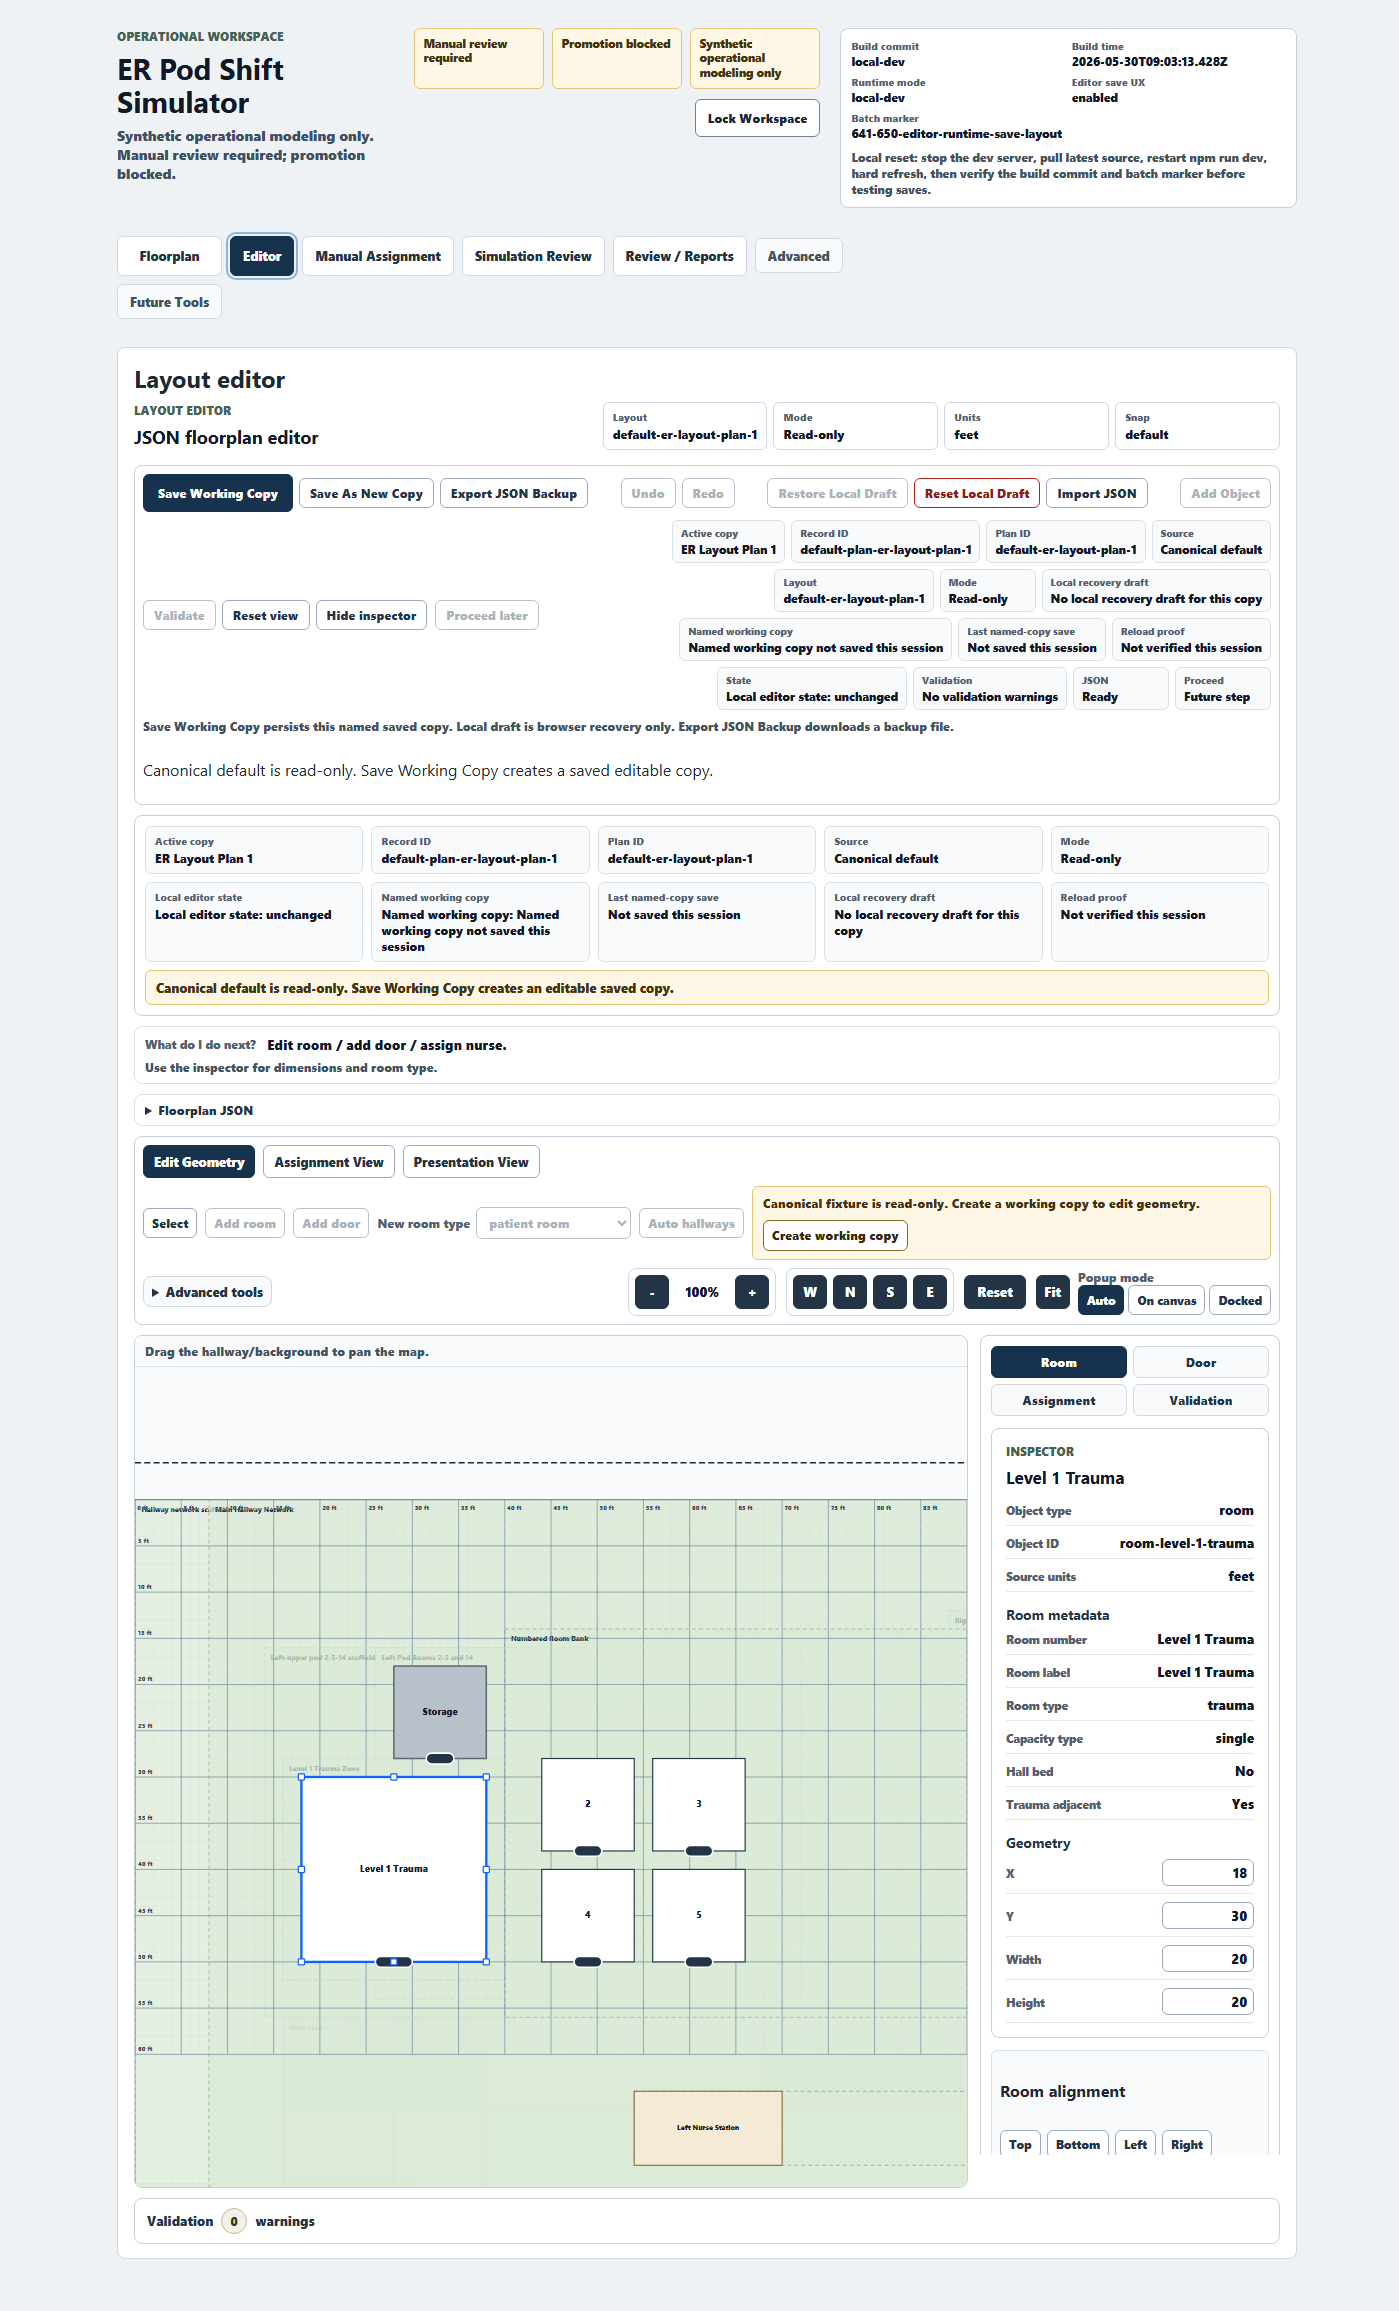
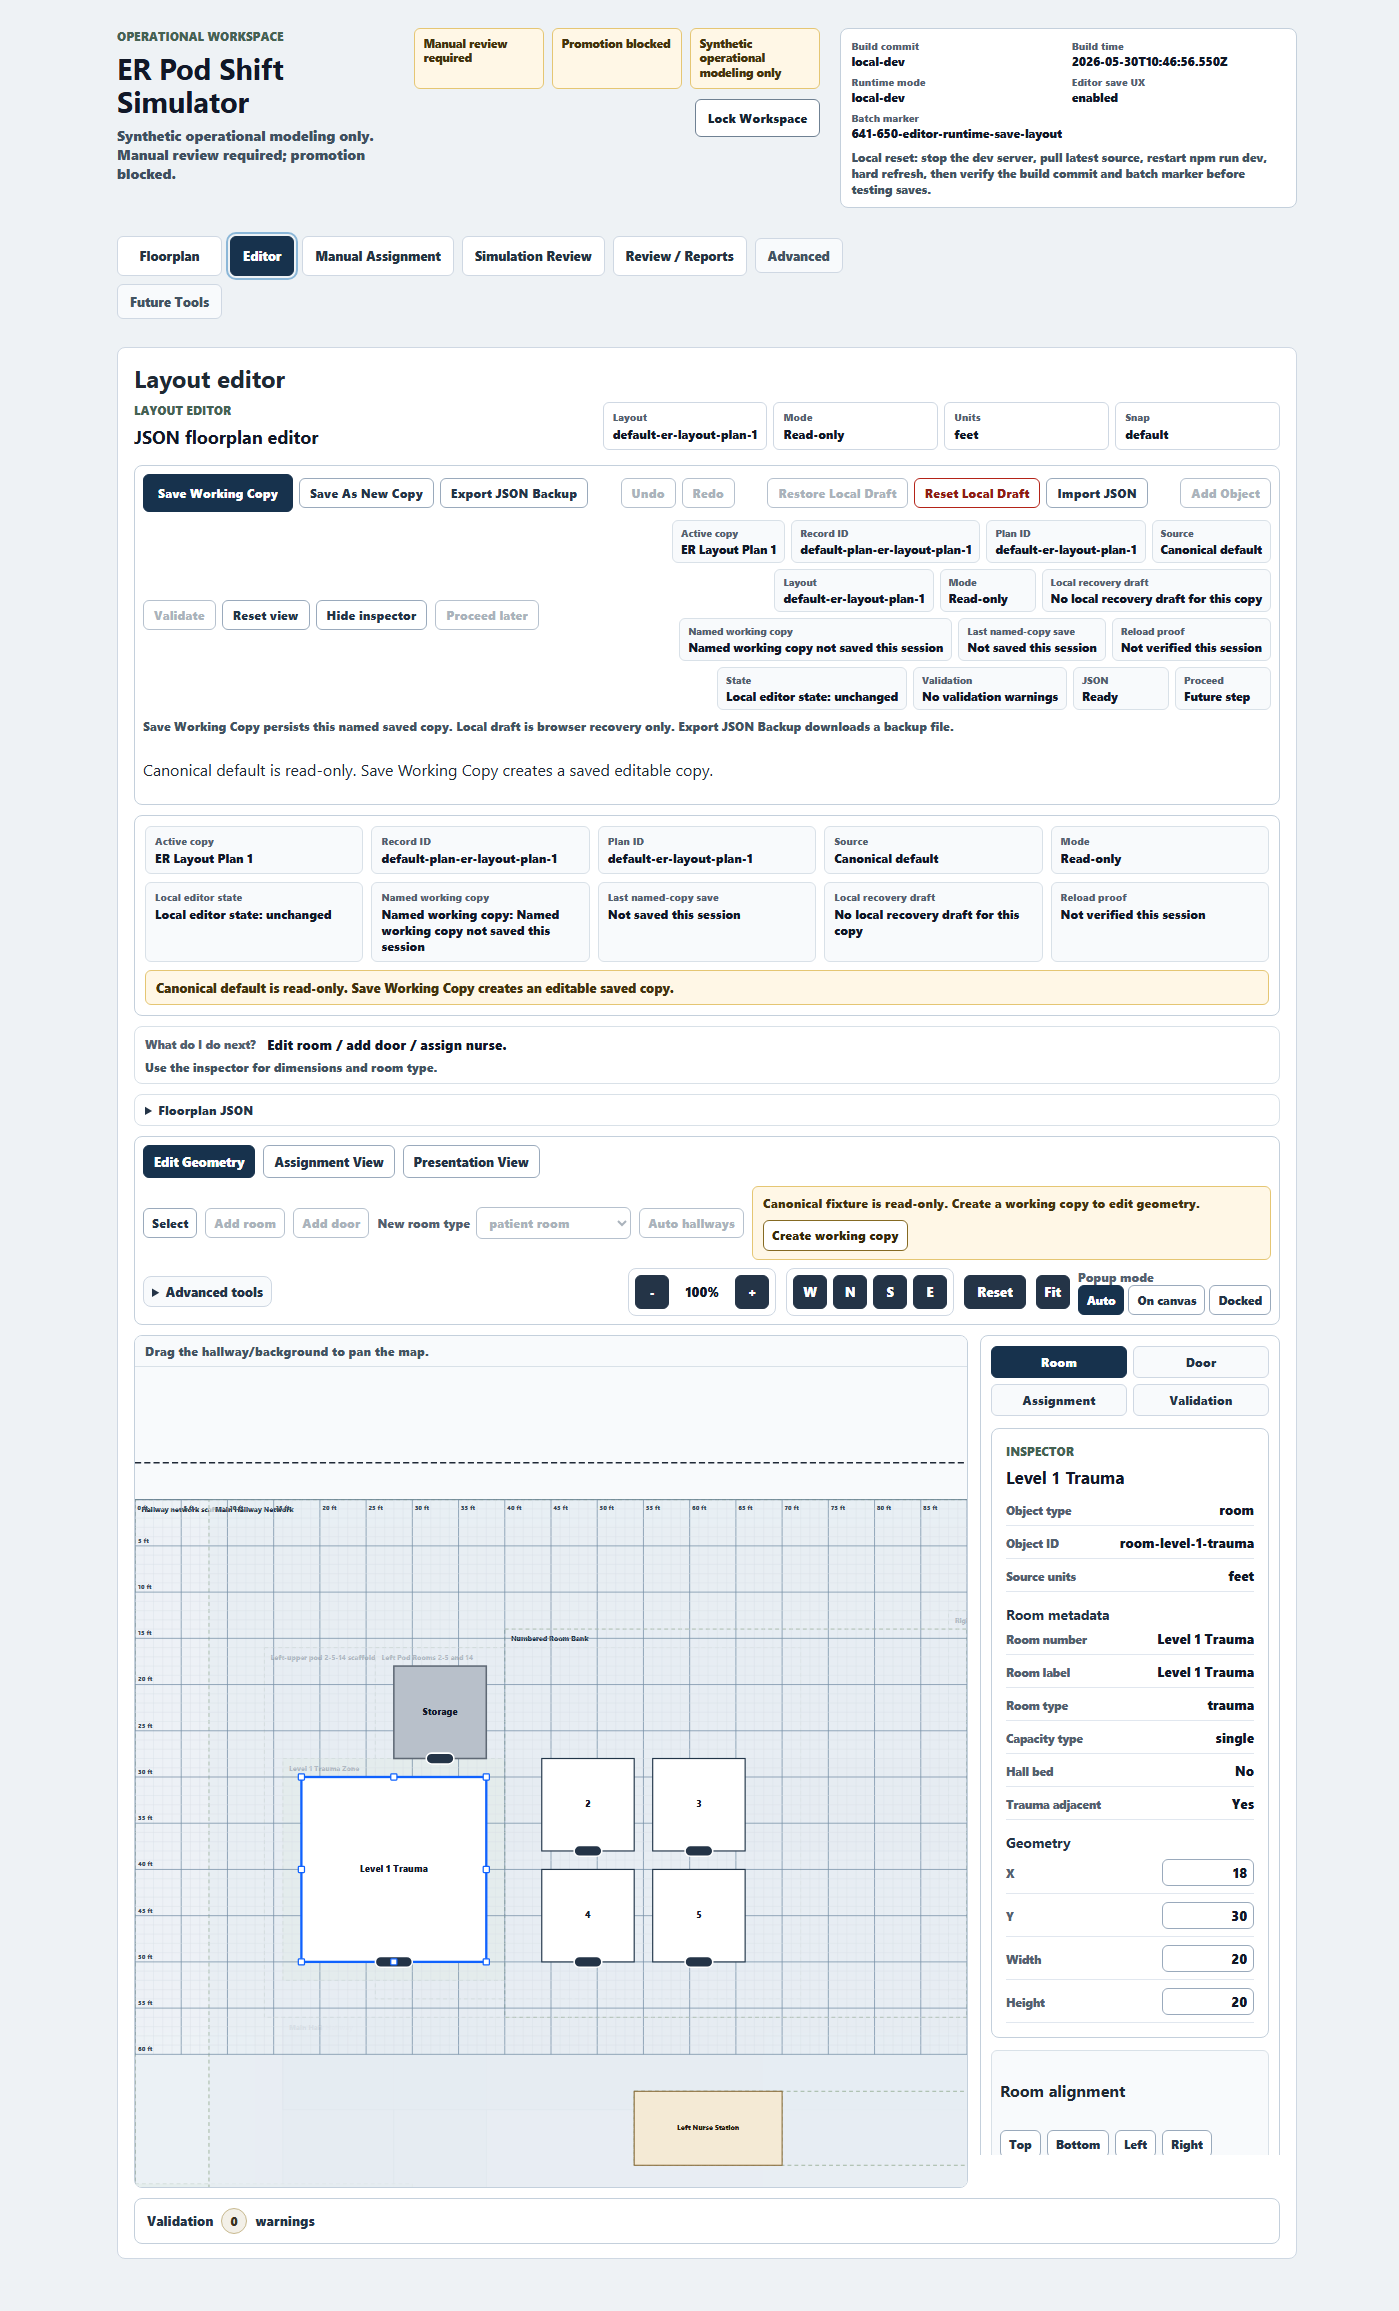
Fix support access zone boundary

Changed region(s): [[0.1229, 0.6231, 0.7069, 0.9658]]

diff --git a/apps/web/src/features/layout-editor/layoutEditorActiveFloorplanLoad.test.ts b/apps/web/src/features/layout-editor/layoutEditorActiveFloorplanLoad.test.ts
@@ -11,6 +11,7 @@ import {
 } from "../floorplans/activeFloorplanState";
 import { createDuplicateFloorplanViewModel } from "../floorplans/duplicateFloorplanViewModel";
 import { createSavedFloorplanStore } from "../floorplans/savedFloorplanStore";
+import { buildHallwayZoneQuickEdit } from "./hallwayZoneQuickEditViewModel";
 import { layoutEditorReducer } from "./layoutEditorReducer";
 import { createLayoutEditorStateFromFloorplan } from "./layoutEditorState";
 import { buildLayoutValidationPanelViewModel } from "./layoutValidationPanelViewModel";
@@ -58,6 +59,25 @@ if (defaultEditorState.sourcePlan.pathEdges.length !== defaultFixture.plan.pathE
 }
 if (defaultEditorState.loadedFloorplan?.sourceKind !== "default-json") {
   throw new Error("editor loaded floorplan must identify default JSON source");
+}
+const supportAccessEligibleZoneIds = defaultEditorState.editableLayout.zones
+  .filter((zone) =>
+    buildHallwayZoneQuickEdit({
+      hallway: null,
+      zone,
+      readOnly: false,
+      validationWarningCount: 0
+    }).canAddSupportAccessPoint
+  )
+  .map((zone) => zone.id);
+if (!supportAccessEligibleZoneIds.includes("zone-provider-pharmacy")) {
+  throw new Error("provider/pharmacy zone must expose support-access authoring");
+}
+if (supportAccessEligibleZoneIds.some((zoneId) => !/pharmacy/u.test(zoneId))) {
+  throw new Error("support-access authoring must stay hidden on non-provider/pharmacy zones");
+}
+if (!defaultEditorState.editableLayout.zones.some((zone) => zone.zoneType === "operational")) {
+  throw new Error("generic operational zones must not be mapped to provider/pharmacy");
 }
 
 const defaultFirstRoom = defaultEditorState.editableLayout.rooms[0];

diff --git a/apps/web/src/features/layout-editor/layoutEditorReducer.ts b/apps/web/src/features/layout-editor/layoutEditorReducer.ts
@@ -8,6 +8,7 @@ import {
   createEditableSupportAccessPoint,
   duplicateLayoutObject,
   generateAutoHallways,
+  isProviderPharmacySupportZone,
   moveDoor,
   snapRoomToGrid,
   updateDoorWidth,
@@ -674,7 +675,7 @@ function addSupportAccessPoint(
     return state;
   }
   const ownerZone = state.editableLayout.zones.find((zone) => zone.id === action.zoneId);
-  if (ownerZone == null || ownerZone.zoneType !== "provider_pharmacy") {
+  if (ownerZone == null || !isProviderPharmacySupportZone(ownerZone)) {
     return state;
   }
   const wallLength = action.wall === "north" || action.wall === "south"
@@ -796,6 +797,9 @@ function convertSelectedRoomPairToSplitBay(
   if (roomA == null || roomB == null) {
     return state;
   }
+  if (roomAlreadyInSplitBay(state.editableLayout, roomA.id) || roomAlreadyInSplitBay(state.editableLayout, roomB.id)) {
+    return state;
+  }
   return addSplitBay(state, {
     type: "addSplitBay",
     splitBayId: action.splitBayId,
@@ -803,6 +807,10 @@ function convertSelectedRoomPairToSplitBay(
     roomA,
     roomB
   });
+}
+
+function roomAlreadyInSplitBay(layout: EditableLayoutGeometryContract, roomId: string): boolean {
+  return (layout.splitBays ?? []).some((splitBay) => splitBay.bedPositionRoomIds.includes(roomId));
 }
 
 function editSplitBayDivider(

diff --git a/packages/shared/src/contracts.ts b/packages/shared/src/contracts.ts
@@ -1090,11 +1090,7 @@ export function validatePlanContract(value: unknown): PlanContract {
     objectType: "zone" as const,
     id: zone.id,
     label: zone.label,
-    zoneType: zone.zoneType === "ems_entry" || zone.zoneType === "ambulance_entry"
-      ? "ems_entry" as const
-      : zone.zoneType === "trauma_zone"
-        ? "trauma" as const
-        : "provider_pharmacy" as const,
+    zoneType: editableZoneTypeForPlanZone(zone.zoneType),
     xFeet: zone.x,
     yFeet: zone.y,
     widthFeet: zone.widthFeet,
@@ -1178,6 +1174,21 @@ export function validatePlanContract(value: unknown): PlanContract {
     pathNodes,
     pathEdges
   } as PlanContract;
+}
+
+function editableZoneTypeForPlanZone(zoneType: ZoneType) {
+  switch (zoneType) {
+    case "ems_entry":
+    case "ambulance_entry":
+      return "ems_entry" as const;
+    case "trauma_zone":
+      return "trauma" as const;
+    case "pharmacy":
+    case "medication_room":
+      return "provider_pharmacy" as const;
+    default:
+      return "operational" as const;
+  }
 }
 
 export function validatePlanBuilderDefaultsContract(

diff --git a/packages/shared/src/floorplans/floorplanAuthoringBehaviorHarness.ts b/packages/shared/src/floorplans/floorplanAuthoringBehaviorHarness.ts
@@ -336,16 +336,27 @@ function planZoneToEditableZone(zone: PlanContract["zones"][number]): EditableZo
     objectType: "zone",
     id: zone.id,
     label: zone.label,
-    zoneType: zone.zoneType === "ems_entry" || zone.zoneType === "ambulance_entry"
-      ? "ems_entry"
-      : zone.zoneType === "trauma_zone"
-        ? "trauma"
-        : "provider_pharmacy",
+    zoneType: editableZoneTypeForPlanZone(zone.zoneType),
     xFeet: zone.x,
     yFeet: zone.y,
     widthFeet: zone.widthFeet,
     heightFeet: zone.lengthFeet
   };
+}
+
+function editableZoneTypeForPlanZone(zoneType: PlanContract["zones"][number]["zoneType"]): EditableZoneGeometry["zoneType"] {
+  switch (zoneType) {
+    case "ems_entry":
+    case "ambulance_entry":
+      return "ems_entry";
+    case "trauma_zone":
+      return "trauma";
+    case "pharmacy":
+    case "medication_room":
+      return "provider_pharmacy";
+    default:
+      return "operational";
+  }
 }
 
 function deriveDoorWall(

diff --git a/packages/shared/src/floorplans/supportAccessPointContract.ts b/packages/shared/src/floorplans/supportAccessPointContract.ts
@@ -35,7 +35,10 @@ export function createEditableSupportAccessPoint(input: {
 }
 
 export function isProviderPharmacySupportZone(zone: EditableZoneGeometry | null | undefined): boolean {
-  return zone?.zoneType === "provider_pharmacy";
+  if (zone?.zoneType !== "provider_pharmacy") {
+    return false;
+  }
+  return /pharmacy/u.test(`${zone.id} ${zone.label}`.toLowerCase());
 }
 
 export function summarizeSupportAccessPointContract(input: {
@@ -55,6 +58,9 @@ export function summarizeSupportAccessPointContract(input: {
     }
     if (!input.zones.some((zone) => zone.id === accessPoint.ownerId)) {
       return [`${accessPoint.id} ownerId must reference a zone`];
+    }
+    if (!providerZoneIds.has(accessPoint.ownerId)) {
+      return [`${accessPoint.id} ownerId must reference a provider/pharmacy support zone`];
     }
     return [];
   });

diff --git a/apps/web/src/features/layout-editor/supportMarkerEditorViewModel.ts b/apps/web/src/features/layout-editor/supportMarkerEditorViewModel.ts
@@ -32,11 +32,18 @@ export function buildSupportMarkerEditorViewModel(input: {
     status: "ready",
     zoneId: input.zone.id,
     label: input.zone.label,
-    markerKindLabel: input.zone.zoneType === "ems_entry" ? "EMS Entry marker" : "Provider/Pharmacy label",
+    markerKindLabel: markerKindLabel(input.zone.zoneType),
     presentationVisible: true,
     readOnly: input.readOnly,
     validationMessage: validateSupportMarkerLabel(input.zone.label)
   };
+}
+
+function markerKindLabel(zoneType: EditableZoneGeometry["zoneType"]): string {
+  if (zoneType === "ems_entry") return "EMS Entry marker";
+  if (zoneType === "provider_pharmacy") return "Provider/Pharmacy label";
+  if (zoneType === "trauma") return "Trauma zone label";
+  return "Operational zone label";
 }
 
 export function validateSupportMarkerLabel(value: string): string {

diff --git a/apps/web/src/features/layout-editor/hallwayZoneQuickEditViewModel.ts b/apps/web/src/features/layout-editor/hallwayZoneQuickEditViewModel.ts
@@ -1,4 +1,8 @@
-import type { EditableHallwayGeometry, EditableZoneGeometry } from "@nerdeus/shared";
+import {
+  isProviderPharmacySupportZone,
+  type EditableHallwayGeometry,
+  type EditableZoneGeometry
+} from "@nerdeus/shared";
 
 export type HallwayZoneQuickEditViewModel = {
   status: "missing" | "hallway" | "zone";
@@ -38,7 +42,7 @@ export function buildHallwayZoneQuickEdit({
       : selected.widthFeet > selected.heightFeet ? "horizontal" : "vertical",
     presentationVisible: true,
     validationStatus: validationWarningCount === 0 ? "No validation warnings" : `${validationWarningCount} validation warnings`,
-    canAddSupportAccessPoint: zone?.zoneType === "provider_pharmacy",
+    canAddSupportAccessPoint: isProviderPharmacySupportZone(zone),
     readOnly
   };
 }

diff --git a/apps/web/src/features/layout-editor/__tests__/HallwayZoneQuickEditPopover.test.tsx b/apps/web/src/features/layout-editor/__tests__/HallwayZoneQuickEditPopover.test.tsx
@@ -44,6 +44,20 @@ if (zoneViewModel.status !== "zone" || zoneViewModel.zoneType !== "provider_phar
 if (zoneViewModel.validationStatus !== "2 validation warnings") {
   throw new Error("zone quick edit should expose validation status");
 }
+const genericZoneViewModel = buildHallwayZoneQuickEdit({
+  hallway: null,
+  zone: {
+    ...zone,
+    id: "zone-main-hallways",
+    label: "Main Hallway Network",
+    zoneType: "operational"
+  },
+  readOnly: false,
+  validationWarningCount: 0
+});
+if (genericZoneViewModel.canAddSupportAccessPoint) {
+  throw new Error("generic operational zones must not expose support access authoring");
+}
 
 const calls: string[] = [];
 const element = HallwayZoneQuickEditPopover({

diff --git a/apps/web/src/features/layout-editor/layoutEditorReducer.test.ts b/apps/web/src/features/layout-editor/layoutEditorReducer.test.ts
@@ -138,6 +138,18 @@ for (const [objectType, objectId] of selectableObjects) {
   assert.equal(selectedState.editableLayout?.rooms[0]?.xFeet, 0);
 }
 
+const splitBayRoomSelectedState = createLayoutEditorState({
+  editableLayout: stateWithLayout.editableLayout,
+  selectedObjectType: "room",
+  selectedObjectId: "room-01"
+});
+const duplicateSplitBayConversion = layoutEditorReducer(splitBayRoomSelectedState, {
+  type: "convertSelectedRoomPairToSplitBay",
+  roomId: "room-01",
+  splitBayId: "duplicate-split-bay"
+});
+assert.equal(duplicateSplitBayConversion, splitBayRoomSelectedState);
+
 const selectedRoomState = layoutEditorReducer(stateWithLayout, {
   type: "selectObject",
   objectType: "room",

diff --git a/packages/shared/src/layout-editor/editableLayoutGeometryContract.ts b/packages/shared/src/layout-editor/editableLayoutGeometryContract.ts
@@ -16,7 +16,7 @@ export const EDITABLE_ROOM_TYPES = [
 ] as const;
 export const EDITABLE_ROOM_CAPACITY_TYPES = ["single", "double", "hall", "flex"] as const;
 export const EDITABLE_STATION_TYPES = ["nurse_station", "desk"] as const;
-export const EDITABLE_ZONE_TYPES = ["ems_entry", "trauma", "provider_pharmacy"] as const;
+export const EDITABLE_ZONE_TYPES = ["operational", "ems_entry", "trauma", "provider_pharmacy"] as const;
 export const EDITABLE_DOOR_OWNER_KINDS = ["room", "hallway"] as const;
 export const EDITABLE_SUPPORT_ACCESS_OWNER_KINDS = ["zone"] as const;
 export const EDITABLE_SPLIT_BAY_DIVIDER_STYLES = ["diagonal", "vertical", "horizontal"] as const;

diff --git a/apps/web/src/features/layout-editor/LayoutEditorStage.tsx b/apps/web/src/features/layout-editor/LayoutEditorStage.tsx
@@ -7,6 +7,7 @@ import {
   decreaseDoorWidth,
   generateDoorPathNodes,
   increaseDoorWidth,
+  isProviderPharmacySupportZone,
   moveToOppositeWall,
   moveToWall,
   nudgeDoor,
@@ -791,7 +792,7 @@ export function LayoutEditorStage({
     if (
       stageState.readOnly ||
       selectedZone == null ||
-      selectedZone.zoneType !== "provider_pharmacy"
+      !isProviderPharmacySupportZone(selectedZone)
     ) {
       return;
     }

diff --git a/apps/web/src/features/layout-editor/HallwayZoneQuickEditPopover.tsx b/apps/web/src/features/layout-editor/HallwayZoneQuickEditPopover.tsx
@@ -12,7 +12,7 @@ export type HallwayZoneQuickEditPopoverProps = {
   onAddSupportAccessPoint?: () => void;
 };
 
-const ZONE_TYPES: readonly EditableZoneType[] = ["ems_entry", "trauma", "provider_pharmacy"];
+const ZONE_TYPES: readonly EditableZoneType[] = ["operational", "ems_entry", "trauma", "provider_pharmacy"];
 
 export function HallwayZoneQuickEditPopover({
   viewModel,
